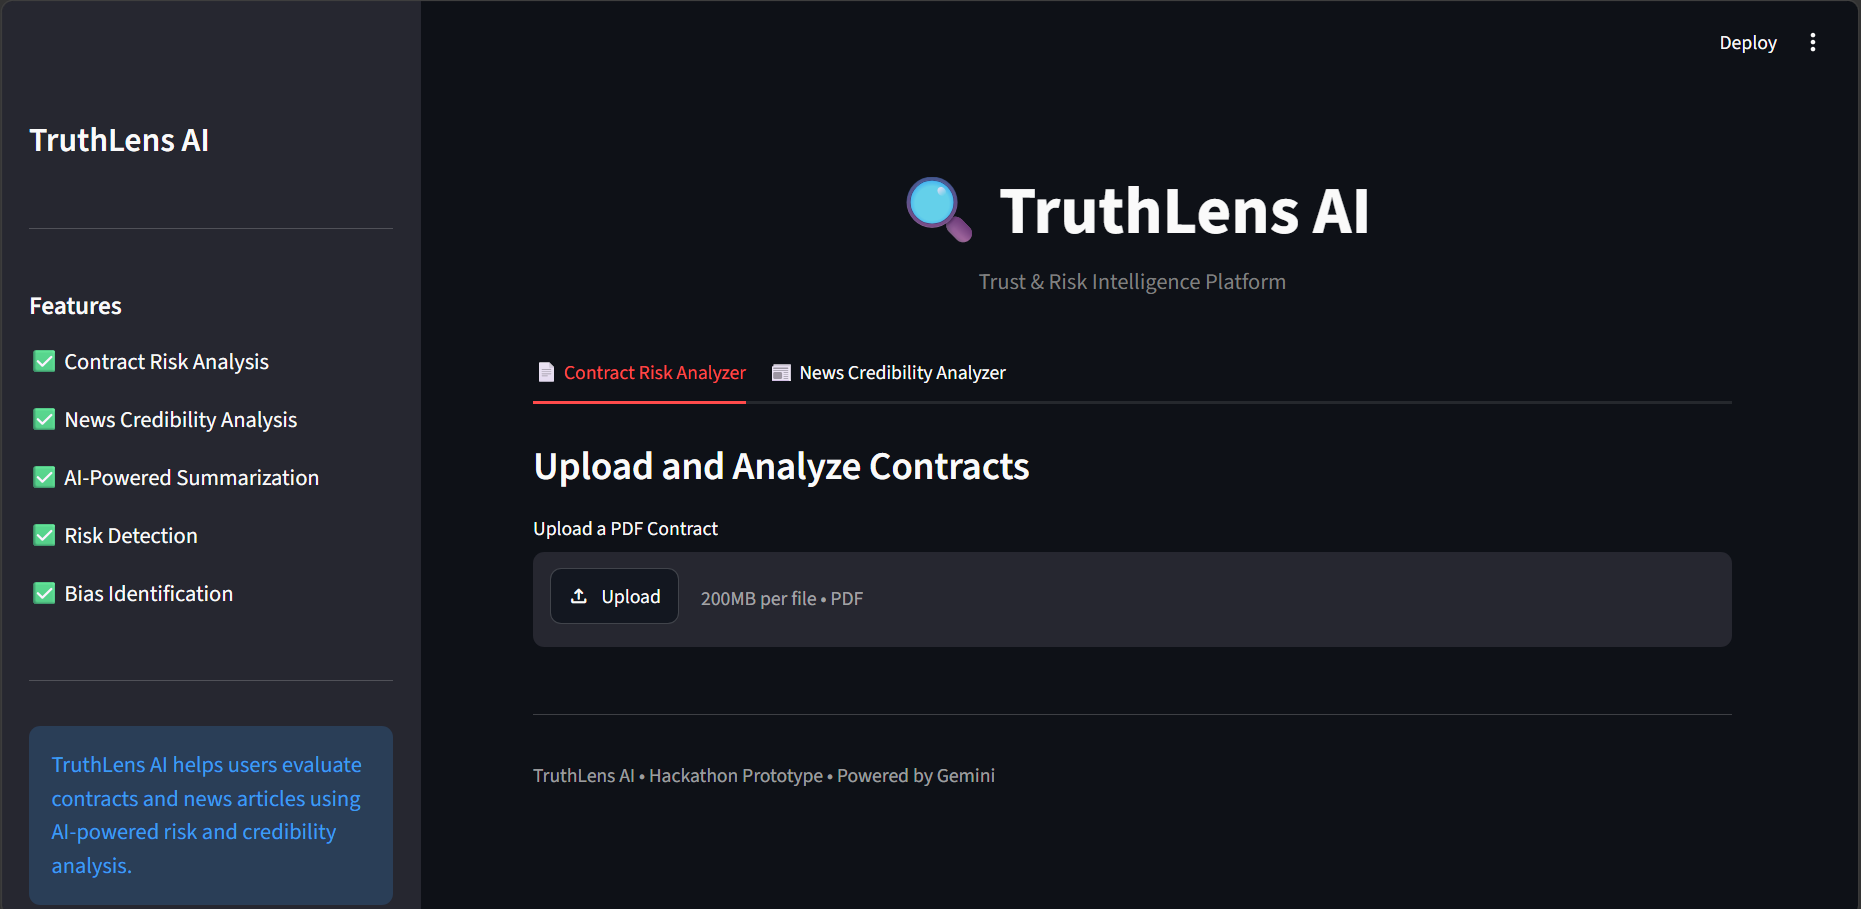
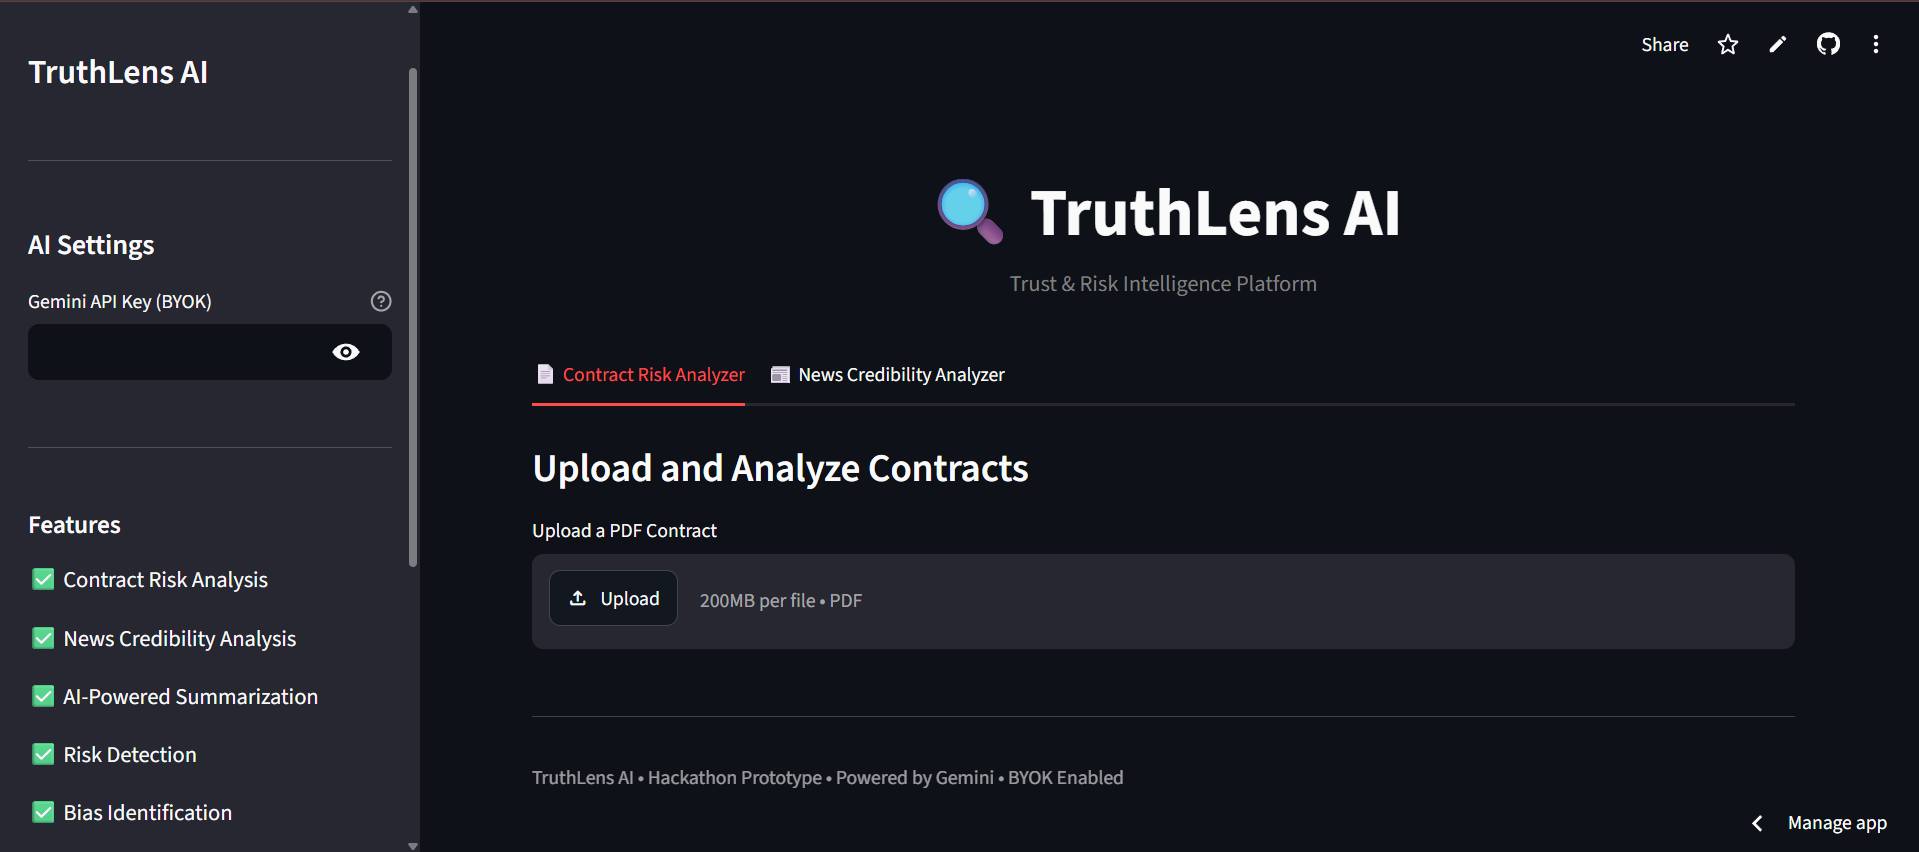
Update Screenshots for BYOK Architecture

diff --git a/README.md b/README.md
@@ -1,5 +1,11 @@
 # 🔍 TruthLens AI
 
+## 🌐 Live Demo
+
+https://truthlens-aigit-s14a.streamlit.app/
+
+---
+
 ## Overview
 
 TruthLens AI is an AI-powered Trust and Risk Intelligence Platform designed to help users make informed decisions by analyzing contracts and evaluating the credibility of news content.
